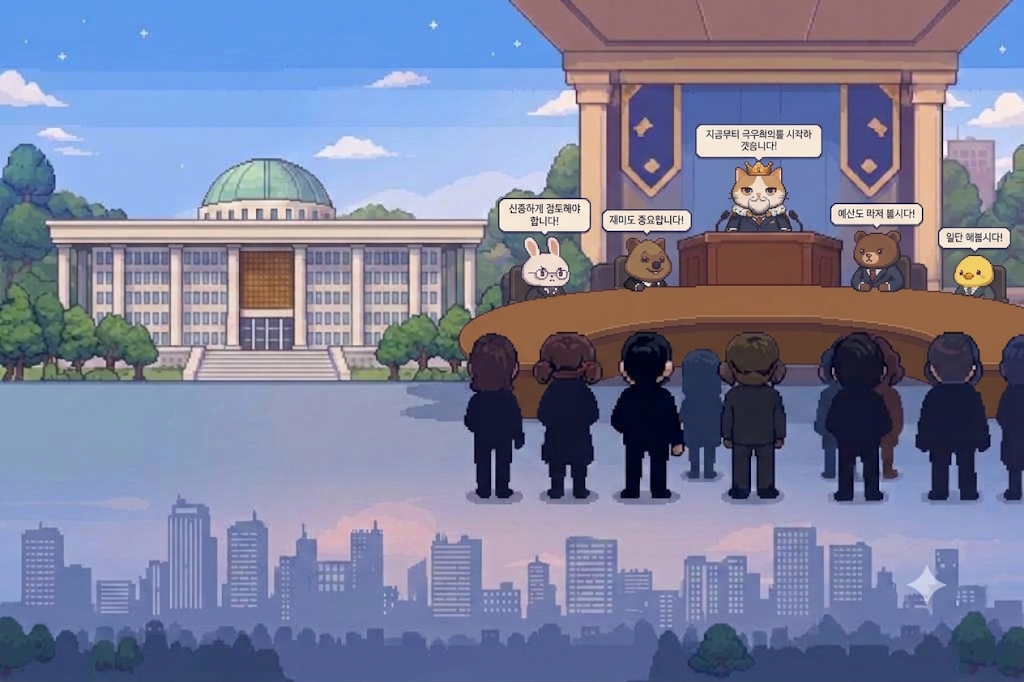
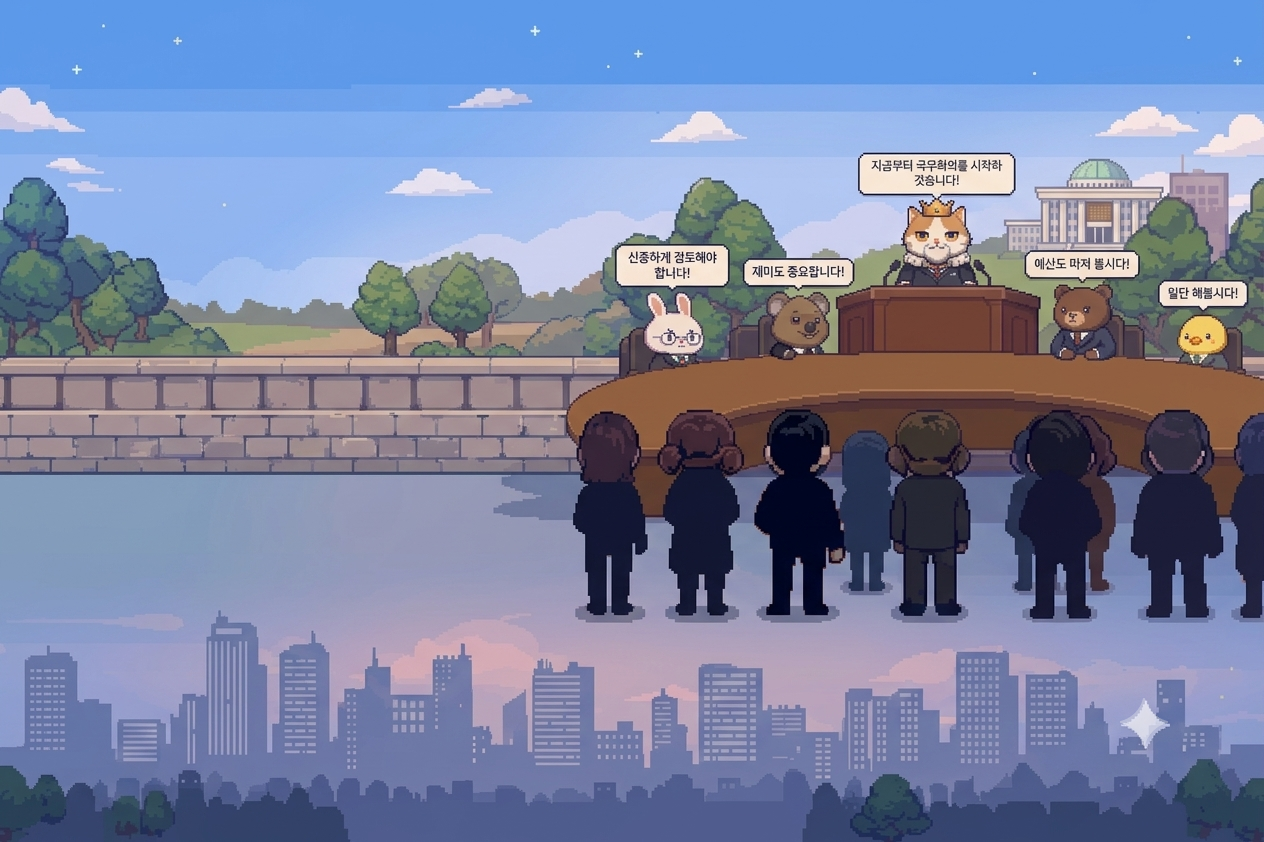
Apply new high-res pixel-art background and re-map speech bubbles/chips
Claude-Session: https://claude.ai/code/session_01FK4EKsW2CMv45MdP3uXWoP

diff --git a/index.html b/index.html
@@ -933,14 +933,15 @@
     });
 
 
-    // 배경 이미지(1024x682) 위에 말풍선·이름표를 같은 자리에 덮어 그린다. (이미지 속 말풍선 글자 오타 대체)
-    const SCENE_W = 1024, SCENE_H = 682;
+    // 배경 이미지(1264x842) 위에 말풍선·이름표를 같은 자리에 덮어 그린다. (이미지 속 말풍선 글자 오타 대체)
+    const SCENE_W = 1264, SCENE_H = 842;
+    const VIEW_TOP = 125, VIEW_ROWS = 295, CENTER_Y = 268; // 캐릭터 구간(말풍선~이름표)이 이 범위
     const SCENE_ITEMS = [
-      { x: 496, y: 195, w: 98,  h: 42, text: "신중하게 검토해야 합니다!", chip: [545, 300, "신중주의"] },
-      { x: 600, y: 206, w: 95,  h: 32, text: "재미도 중요합니다!",         chip: [648, 300, "낭만주의"] },
-      { x: 694, y: 122, w: 132, h: 40, text: "지금부터 국무회의를 시작하겠습니다!", chip: [760, 266, "국무총리"] },
-      { x: 828, y: 201, w: 98,  h: 32, text: "예산도 따져 봅시다!",         chip: [878, 300, "현실주의"] },
-      { x: 936, y: 225, w: 76,  h: 30, text: "일단 해봅시다!",             chip: [975, 300, "행동파"] }
+      { x: 612,  y: 240, w: 118, h: 47, text: "신중하게 검토해야 합니다!", chip: [672, 376, "신중주의"] },
+      { x: 740,  y: 254, w: 118, h: 37, text: "재미도 중요합니다!",         chip: [798, 376, "낭만주의"] },
+      { x: 855,  y: 149, w: 163, h: 52, text: "지금부터 국무회의를 시작하겠습니다!", chip: [938, 326, "국무총리"] },
+      { x: 1022, y: 247, w: 122, h: 37, text: "예산도 따져 봅시다!",         chip: [1085, 376, "현실주의"] },
+      { x: 1155, y: 278, w: 96,  h: 35, text: "일단 해봅시다!",             chip: [1206, 376, "행동파"] }
     ];
     function layoutScene() {
       const box = document.getElementById("hero-art");
@@ -949,21 +950,21 @@
       const narrow = window.matchMedia("(max-width: 1000px)").matches;
       const phone = window.matchMedia("(max-width: 600px)").matches;
       const w = box.clientWidth;
-      // 태블릿·폰: 이미지 윗부분(335행)이 보이도록 높이를 계산. 데스크톱: 히어로 전체가 배경이며 캐릭터가 있는 구간을 가운데로 맞춤
-      const base = phone ? w / (SCENE_W * 0.58) : w / SCENE_W;
-      box.style.height = narrow ? Math.round(335 * base) + "px" : "";
+      // 태블릿·폰: 캐릭터 구간만 보이도록 높이를 계산. 데스크톱: 히어로 전체가 배경이며 캐릭터 구간을 가운데로 맞춤
+      const base = phone ? w / (SCENE_W * 0.55) : w / SCENE_W;
+      box.style.height = narrow ? Math.round(VIEW_ROWS * base) + "px" : "";
       const hero = box.parentElement;
-      hero.style.minHeight = narrow ? "" : Math.round(215 * base) + "px"; // 말풍선~이름표(약 200행)가 항상 보이게 최소 높이 확보
+      hero.style.minHeight = narrow ? "" : Math.round(VIEW_ROWS * base) + "px";
       const h = box.clientHeight;
       const scale = phone ? Math.max(base, h / SCENE_H) : Math.max(w / SCENE_W, h / SCENE_H);
       const imgW = SCENE_W * scale, imgH = SCENE_H * scale;
       const offsetX = Math.max(0, imgW - w) * (phone ? 1 : 0.5);
       const rows = h / scale;                         // 화면에 보이는 그림 행 수
-      const yTop = narrow ? 0 : Math.max(0, Math.min(SCENE_H - rows, 218 - rows / 2));
+      const yTop = narrow ? VIEW_TOP : Math.max(0, Math.min(SCENE_H - rows, CENTER_Y - rows / 2));
       img.style.width = imgW + "px"; img.style.height = imgH + "px";
       img.style.left = (-offsetX) + "px"; img.style.top = (-yTop * scale) + "px";
       box.querySelectorAll(".sbubble, .schip").forEach(el => el.remove());
-      const fs = Math.max(8, Math.round(9.5 * scale));
+      const fs = Math.max(phone ? 7 : 8, Math.round(9.5 * scale));
       SCENE_ITEMS.forEach(item => {
         const bub = document.createElement("div");
         bub.className = "sbubble";
@@ -974,7 +975,7 @@
         const [cx, cy, name] = item.chip;
         const c = document.createElement("div");
         c.className = "schip";
-        c.style.cssText = `left:${cx * scale - offsetX}px;top:${(cy - yTop) * scale}px;font-size:${Math.max(8, Math.round(8.5 * scale))}px`;
+        c.style.cssText = `left:${cx * scale - offsetX}px;top:${(cy - yTop) * scale}px;font-size:${Math.max(phone ? 7 : 8, Math.round(8.5 * scale))}px`;
         c.textContent = name;
         box.appendChild(c);
       });
